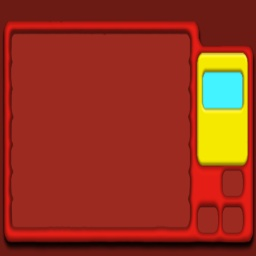
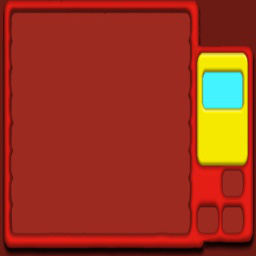
Misc GUI fixes

diff --git a/toontown/shtiker/InventoryPageOLD.py b/toontown/shtiker/InventoryPageOLD.py
@@ -5,8 +5,6 @@ from pandac.PandaModules import *
 from toontown.toonbase import ToontownGlobals
 from toontown.toonbase import TTLocalizer
 
-
-
 class InventoryPageOLD(ShtikerPage.ShtikerPage):
 
     def __init__(self):
@@ -18,16 +16,16 @@ class InventoryPageOLD(ShtikerPage.ShtikerPage):
 
     def load(self):
         ShtikerPage.ShtikerPage.load(self)
-        self.title = DirectLabel(parent=self, relief=None, text=TTLocalizer.InventoryPageTitle, text_scale=0.12, textMayChange=1, pos=(0, 0, 0.62))
-        self.gagFrame = DirectFrame(parent=self, relief=None, pos=(-1.1, 0, -0.47), scale=(0.35, 0.35, 0.35), geom=DGG.getDefaultDialogGeom(), geom_scale=(1.4, 1, 1), geom_color=ToontownGlobals.GlobalDialogColor)
-        self.trackInfo = DirectFrame(parent=self, relief=None, pos=(-1.1, 0, 0.47), scale=(0.35, 0.35, 0.35), geom=DGG.getDefaultDialogGeom(), geom_scale=(1.4, 1, 1), geom_color=ToontownGlobals.GlobalDialogColor, text='', text_wordwrap=11, text_align=TextNode.ALeft, text_scale=0.12, text_pos=(-0.65, 0.3), text_fg=(0.05, 0.14, 0.4, 1))
+        self.title = DirectLabel(parent=self, relief=None, text=TTLocalizer.InventoryPageTitle, text_scale=0.08, textMayChange=1, pos=(0, 0, 0.7))
+        self.gagFrame = DirectFrame(parent=self, relief=None, pos=(0.1, 0, -0.47), scale=(0.35, 0.35, 0.35), geom=DGG.getDefaultDialogGeom(), geom_color=ToontownGlobals.GlobalDialogColor)
+        self.trackInfo = DirectFrame(parent=self, relief=None, pos=(-0.4, 0, -0.47), scale=(0.35, 0.35, 0.35), geom=DGG.getDefaultDialogGeom(), geom_scale=(1.4, 1, 1), geom_color=ToontownGlobals.GlobalDialogColor, text='', text_wordwrap=11, text_align=TextNode.ALeft, text_scale=0.12, text_pos=(-0.65, 0.3), text_fg=(0.05, 0.14, 0.4, 1))
         self.trackProgress = DirectWaitBar(parent=self.trackInfo, pos=(0, 0, -0.2), relief=DGG.SUNKEN, frameSize=(-0.6,
          0.6,
          -0.1,
          0.1), borderWidth=(0.025, 0.025), scale=1.1, frameColor=(0.4, 0.6, 0.4, 1), barColor=(0.9, 1, 0.7, 1), text='0/0', text_scale=0.15, text_fg=(0.05, 0.14, 0.4, 1), text_align=TextNode.ACenter, text_pos=(0, -0.22))
         self.trackProgress.hide()
         jarGui = loader.loadModel('phase_3.5/models/gui/jar_gui')
-        self.moneyDisplay = DirectLabel(parent=self, relief=None, pos=(1, 0, -0.47), scale=0.8, text=str(base.localAvatar.getMoney()), text_scale=0.18, text_fg=(0.95, 0.95, 0, 1), text_shadow=(0, 0, 0, 1), text_pos=(0, -0.1, 0), image=jarGui.find('**/Jar'), text_font=ToontownGlobals.getSignFont())
+        self.moneyDisplay = DirectLabel(parent=self, relief=None, pos=(0.55, 0, -0.5), scale=0.8, text=str(base.localAvatar.getMoney()), text_scale=0.18, text_fg=(0.95, 0.95, 0, 1), text_shadow=(0, 0, 0, 1), text_pos=(0, -0.1, 0), image=jarGui.find('**/Jar'), text_font=ToontownGlobals.getSignFont())
         jarGui.removeNode()
         return
 
@@ -42,7 +40,6 @@ class InventoryPageOLD(ShtikerPage.ShtikerPage):
         ShtikerPage.ShtikerPage.enter(self)
         base.localAvatar.inventory.setActivateMode('book')
         base.localAvatar.inventory.show()
-        base.localAvatar.inventory.setScale(0.85, 0.85, 0.85)
         base.localAvatar.inventory.reparentTo(self)
         self.moneyDisplay['text'] = str(base.localAvatar.getMoney())
         self.accept('enterBookDelete', self.enterDeleteMode)

diff --git a/toontown/toon/InventoryNewOLD.py b/toontown/toon/InventoryNewOLD.py
@@ -29,7 +29,7 @@ class InventoryNewOLD(InventoryBase.InventoryBase, DirectFrame):
     ShadowColor = Vec4(0, 0, 0, 0)
     ShadowBuffedColor = Vec4(1, 1, 1, 1)
     UnpressableShadowBuffedColor = Vec4(1, 1, 1, 0.3)
-    TrackYOffset = 0.0
+    TrackYOffset = 0.081
     TrackYSpacing = -0.12
     ButtonXOffset = -0.31
     ButtonXSpacing = 0.18
@@ -480,7 +480,7 @@ class InventoryNewOLD(InventoryBase.InventoryBase, DirectFrame):
     def bookActivateButtons(self):
         self.setPos(0, 0, 0.52)
         self.setScale(1.0)
-        self.detailFrame.setPos(-1.1, 0, -0.855)
+        self.detailFrame.setPos(0.1, 0, -0.855)
         self.detailFrame.setScale(0.75)
         self.deleteEnterButton.hide()
         self.deleteAllButton.hide()
